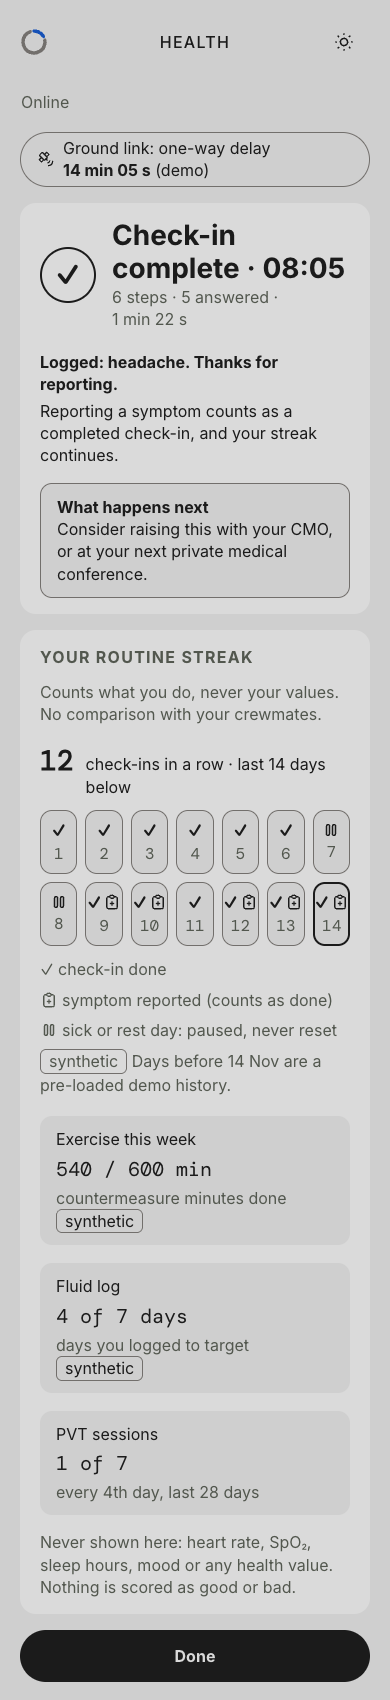
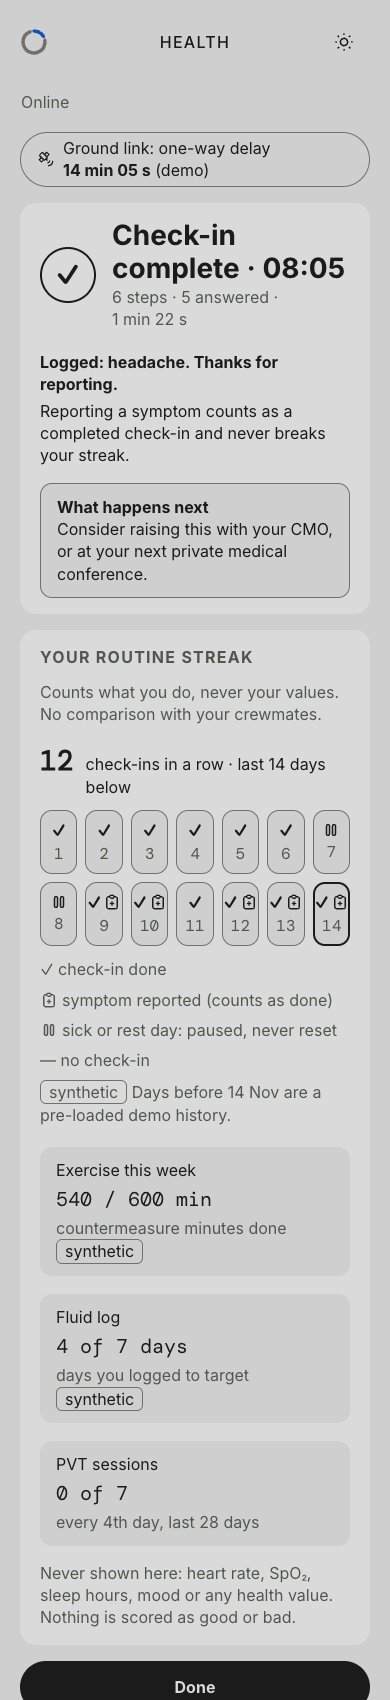
docs(mock): reworded streak line, no-check-in legend and a real PVT count of 0 (#36)

diff --git a/docs/features/36-reporting-win.mock.html b/docs/features/36-reporting-win.mock.html
@@ -65,19 +65,19 @@ const streak = (todayKind) => `<section class="card"><h2 class="card-heading">Yo
 <p class="muted">Counts what you do, never your values. No comparison with your crewmates.</p>
 <p class="streak__count"><b>12</b><span>check-ins in a row · last 14 days below</span></p>
 <ol class="days">${seed.map((k, i) => cell(i + 1, k, false)).join('')}${cell(14, todayKind, true)}</ol>
-<p class="legend"><span>✓ check-in done</span><span>${I.symptom} symptom reported (counts as done)</span><span>${I.paused} sick or rest day: paused, never reset</span></p>
+<p class="legend"><span>✓ check-in done</span><span>${I.symptom} symptom reported (counts as done)</span><span>${I.paused} sick or rest day: paused, never reset</span><span>— no check-in</span></p>
 <p class="seed-note"><span class="tag">synthetic</span> Days before 14 Nov are a pre-loaded demo history.</p>
 <ul class="counters">
 <li><span>Exercise this week</span><p class="v">540 / 600 min</p><span class="muted">countermeasure minutes done</span> <span class="tag">synthetic</span></li>
 <li><span>Fluid log</span><p class="v">4 of 7 days</p><span class="muted">days you logged to target</span> <span class="tag">synthetic</span></li>
-<li><span>PVT sessions</span><p class="v">1 of 7</p><span class="muted">every 4th day, last 28 days</span></li>
+<li><span>PVT sessions</span><p class="v">0 of 7</p><span class="muted">every 4th day, last 28 days</span></li>
 </ul>
 <p class="never">Never shown here: heart rate, SpO₂, sleep hours, mood or any health value. Nothing is scored as good or bad.</p></section>`
 
 const complete = (body) => `<section class="card"><div class="complete__top"><span class="done-mark" aria-hidden="true">✓</span><div><h2 class="complete__title">Check-in complete · 08:05</h2><p class="muted"><span class="nowrap">6 steps</span> · <span class="nowrap">5 answered</span> · <span class="nowrap">1 min 22 s</span></p></div></div>${body}</section>`
 
 const states = {
-  symptom: () => complete(`<p class="ack">Logged: headache. Thanks for reporting.</p><p>Reporting a symptom counts as a completed check-in, and your streak continues.</p>
+  symptom: () => complete(`<p class="ack">Logged: headache. Thanks for reporting.</p><p>Reporting a symptom counts as a completed check-in and never breaks your streak.</p>
 <div class="next"><h3>What happens next</h3><p>Consider raising this with your CMO, or at your next private medical conference.</p></div>`) + streak('reported'),
   none: () => complete(`<p class="ack">No symptoms logged. Thanks for checking in.</p>`) + streak('done'),
 }
